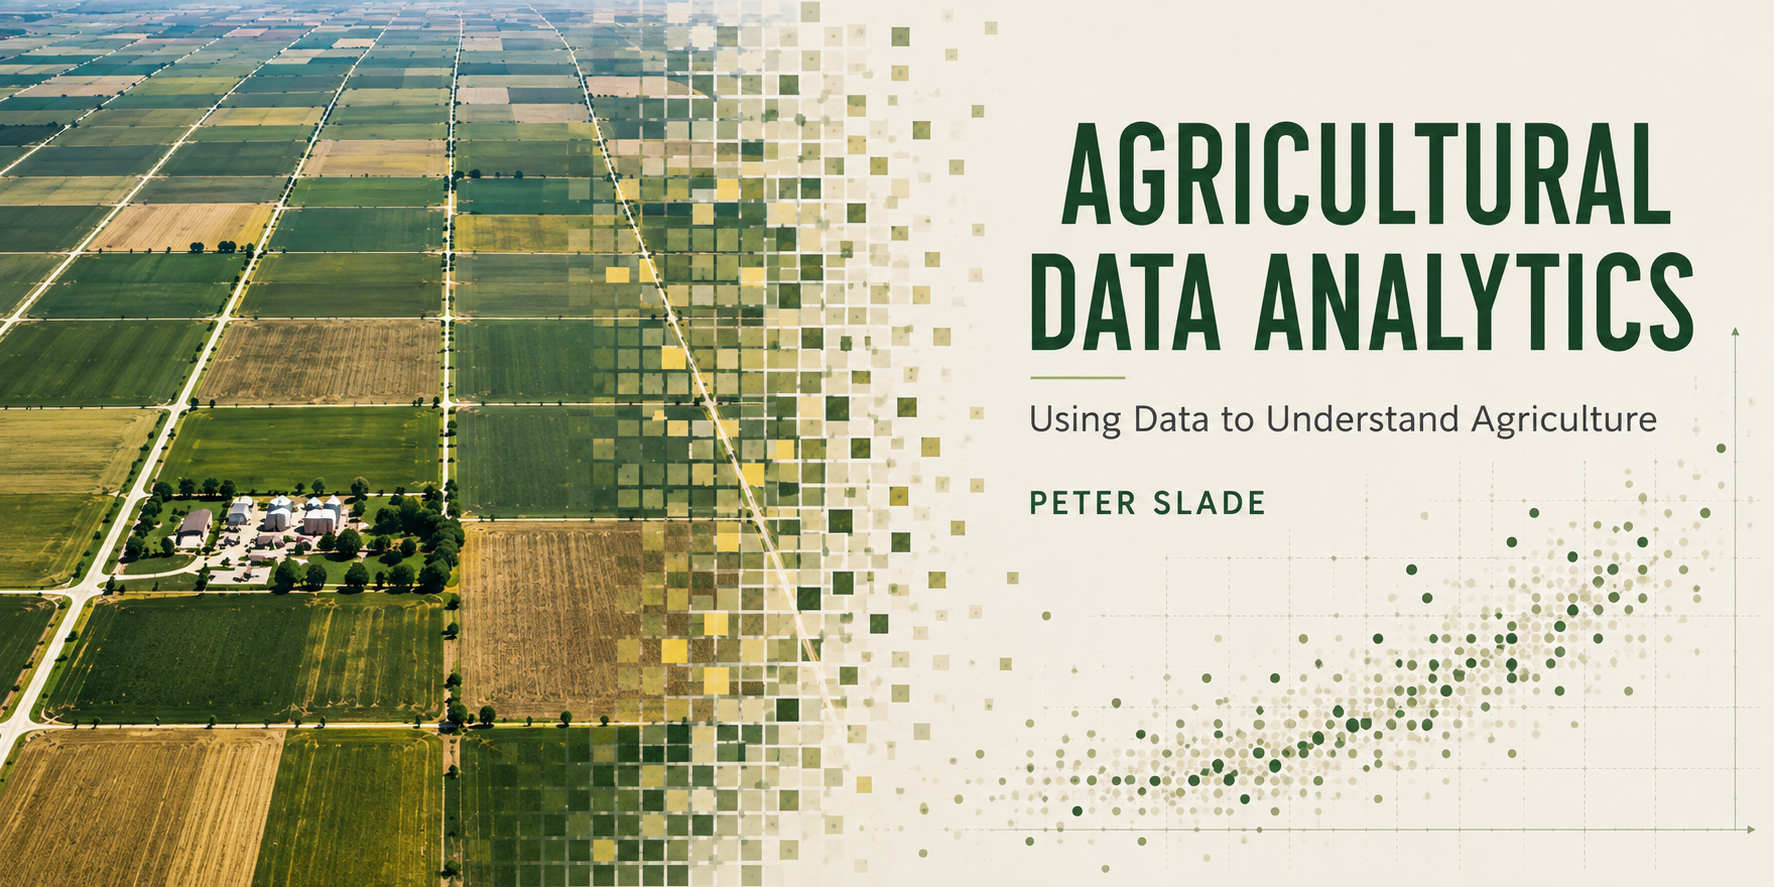
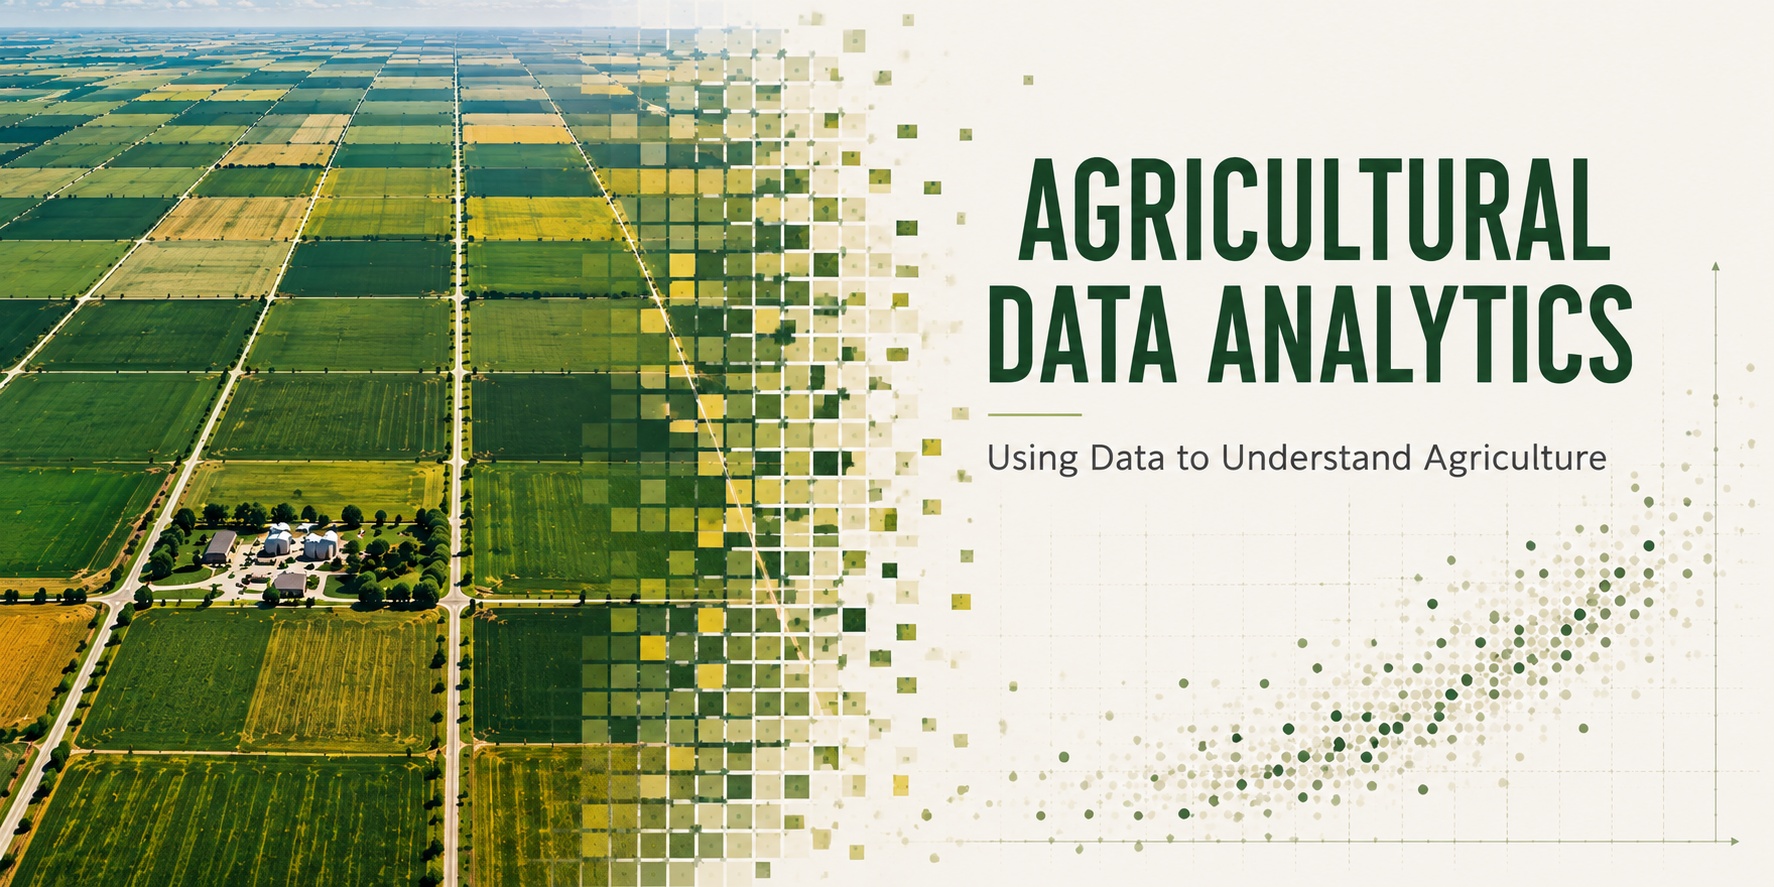
Landing page: new cover art at top, drop book-title masthead, byline with Author + Last update
Claude-Session: https://claude.ai/code/session_0165WQeoaB3CPsnpvD7o3Yah

diff --git a/theme.scss b/theme.scss
@@ -41,6 +41,26 @@ $headings-font-weight: 600;
 // image sits high on the page.
 #preface + .cover-hero, h1.title + .cover-hero { margin-top: 0.75rem; }
 
+// Custom byline under the hero (Author / Last update), mirroring Quarto's
+// title-block meta row but placed below the cover image on the landing page.
+.landing-byline {
+  display: flex;
+  gap: 3rem;
+  max-width: 54rem;
+  margin: 0.2rem auto 2.4rem;
+  flex-wrap: wrap;
+}
+.landing-byline .byline-item p,
+.landing-byline .byline-item { margin: 0; }
+.landing-byline .byline-heading {
+  display: block;
+  font-size: 0.72rem;
+  letter-spacing: 0.06em;
+  text-transform: uppercase;
+  color: $muted;
+  margin-bottom: 0.15rem;
+}
+
 // --- Reading measure & whitespace ---------------------------------------
 // Narrower main column so lines aren't too long to scan.
 main.content, .page-columns .content {
